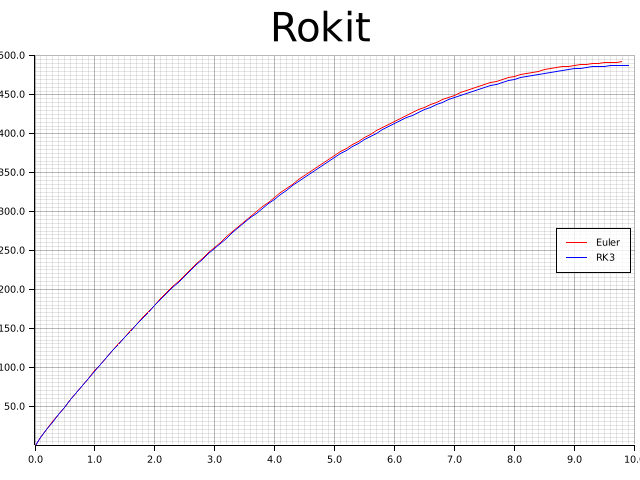
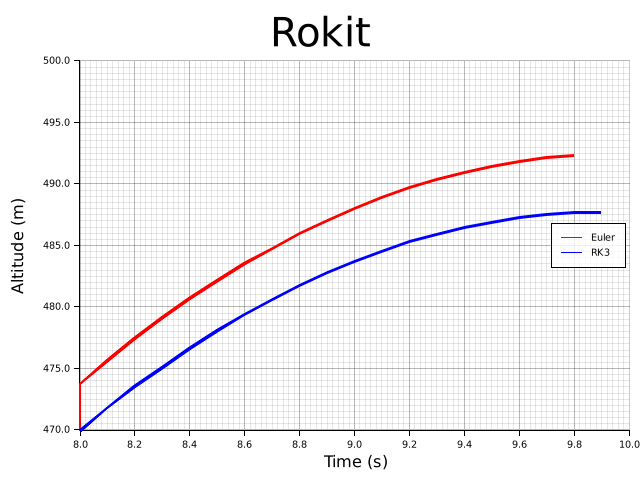
Added some comments and parametrized the plotting a little bit

Changed region(s): [[0.0, 0.0312, 1.0, 0.9688]]

diff --git a/src/state_mod.rs b/src/state_mod.rs
@@ -4,12 +4,16 @@ use crate::simdata_mod::SimulationData;
 
 #[derive(Debug, Clone, Copy)]
 pub(crate) enum State {
+    // Enumeration to unify the different available state spaces / ODE models
+    // Each of these specifies what the simulation is really all about: what equations you are
+    //         actually solving, what data types, and the number of variables that are needed,...
     __1DOF(Dof1),
     __3DOF(Dof3),
 }
 
 #[derive(Debug, Clone, Copy)]
 pub(crate) enum StateVector {
+    // Data type which represents an actual vector(rust::array) of the state space for a given model
     __1DOF([f64; 2]),
     __3DOF([f64; 6]),
 }
@@ -17,18 +21,21 @@ pub(crate) enum StateVector {
 impl State {
     pub(crate) fn print_state(&self, i: u64) {
         match self {
+            // Custom printout to let the user know the status of the state during iterations
             State::__1DOF(dof1) => dof1.print_state_1dof(i),
             State::__3DOF(dof3) => dof3.print_state_3dof(i),
             _ => println!("Ignoring, State:print_state"),
         }
     }
     pub(crate) fn get_state_vec(&self) -> StateVector {
+        // Return the current values of the state variables using that StateVector enum
         match self {
             State::__1DOF(dof1) => StateVector::__1DOF(dof1.u),
             State::__3DOF(dof3) => StateVector::__3DOF(dof3.u),
         }
     }
     pub(crate) fn get_ndim(&self) -> usize {
+        // Get number of dimensions
         match self {
             State::__1DOF(_dof1) => 2usize,
             State::__3DOF(_dof3) => 6usize,
@@ -39,6 +46,7 @@ impl State {
         }
     }
     pub(crate) fn get_altitude(&self) -> f64 {
+        // get the current elevation/height
         match self {
             State::__1DOF(dof1) => dof1.get_height(),
             State::__3DOF(dof3) => dof3.get_height(),
@@ -49,6 +57,7 @@ impl State {
         }
     }
     pub(crate) fn get_vertical_velocity(&self) -> f64 {
+        // get the velocity in the vertical direction
         match self {
             State::__1DOF(dof1) => dof1.get_velocity(),
             State::__3DOF(dof3) => dof3.get_y_velocity(),
@@ -59,6 +68,7 @@ impl State {
         }
     }
     pub(crate) fn get_time(&self) -> f64 {
+        // return the value of the time variable
         match self {
             State::__1DOF(dof1) => dof1.get_time_1dof(),
             State::__3DOF(dof3) => dof3.get_time_3dof(),
@@ -69,6 +79,7 @@ impl State {
         }
     }
     pub(crate) fn get_derivs(&mut self) -> StateVector {
+        // Return a vector which contains the derivatives of the model/state variables
         match self {
             State::__1DOF(dof1) => StateVector::__1DOF(dof1.get_derivs_1dof()),
             State::__3DOF(dof3) => StateVector::__3DOF(dof3.get_derivs_3dof()),
@@ -79,6 +90,8 @@ impl State {
         }
     }
     pub(crate) fn update(&mut self, du_vec: StateVector, dt: f64) -> () {
+        // Used by the math module to modify the value of the current state once the timestep has
+        //  been calculated by the OdeIterator
         match (self, du_vec) {
             (State::__1DOF(dof1), StateVector::__1DOF(du)) => dof1.update_state(du, dt),
             (State::__3DOF(dof3), StateVector::__3DOF(du)) => dof3.update_state(du, dt),
@@ -88,6 +101,7 @@ impl State {
         }
     }
     pub(crate) fn multiply(&self, u_vec: StateVector, k: f64) -> StateVector {
+        // Function for multiplying a state vector by a scalar
         match (self, u_vec) {
             (State::__1DOF(dof1), StateVector::__1DOF(u)) => {
                 StateVector::__1DOF(dof1.multiply(u, k))
@@ -102,6 +116,7 @@ impl State {
         }
     }
     pub(crate) fn add(&self, u_vec: StateVector, v_vec: StateVector) -> StateVector {
+        // Function for adding two state vectors to each other
         match (self, u_vec, v_vec) {
             (State::__1DOF(dof1), StateVector::__1DOF(u), StateVector::__1DOF(v)) => {
                 StateVector::__1DOF(dof1.add(u, v))
@@ -123,6 +138,9 @@ impl State {
 
 #[derive(Debug, Clone, Copy)]
 pub(crate) struct Dof1 {
+    // This model is a simple 1D, (position,velocity) model
+    // The assumtion is that the rocket is flying perfectly vertical and that there are no
+    // considerations about rotation or anything which would not be 1D in nature.
     u: [f64; 2],    // (height, velocity)
     dudt: [f64; 2], // (d_height, d_velocity)
     rocket: Rocket,
@@ -200,6 +218,9 @@ impl Dof1 {
 
 #[derive(Debug, Clone, Copy)]
 pub(crate) struct Dof3 {
+    // This model is a 3 Degrees of Freedom model which has 2 spatial dimensions
+    // (x=horizontal, y=vertical) and a 3rd variable for the rotation of the rocket
+    // within that 2D space.
     u: [f64; 6], // (x position, y position, angle, x velocity, y velocity, angular veloicty)
     dudt: [f64; 6], // (dx, dy, dang, dvx, dvy, dvang)
     rocket: Rocket,

diff --git a/src/main.rs b/src/main.rs
@@ -4,6 +4,8 @@ mod rocket_mod;
 mod simdata_mod;
 mod simulation_mod;
 mod state_mod;
+
+use std::io::BufRead;
 use plotters::prelude::*;
 
 use crate::math_mod::OdeIterators;
@@ -31,12 +33,13 @@ fn main() -> Result<(), Box<dyn std::error::Error>> {
     // Initial Conditions
     let u0: [f64; 2] = [0.0, 100.0]; // m, m/s
     let state_euler = State::__1DOF(Dof1::new(u0, test_rocket));
-    let u0: [f64; 6] = [0.0, 0.0, 0.0, 0.0, 100.0, 0.0]; // m, m/s
+
+    let u0: [f64; 6] = [0.0, 0.0, 0.0, 0.0, 100.0, 0.0]; // m, m, rad, m/s, m/s, rad/s
     let state_rk3 = State::__3DOF(Dof3::new(u0, test_rocket));
 
     // iteration/calculation Parameters
-    const MAXITER: u64 = 1e5 as u64;
-    const DT: f64 = 1e-1 as f64;
+    const MAXITER: u64 = 1e5 as u64;        //Maximum number of iterations before stopping calculation
+    const DT: f64 = 1e-1 as f64;            //Timestep size to use when integrating ODE
     let euler_method = OdeIterators::Euler(DT);
     let rk3 = OdeIterators::RK3(DT);
 
@@ -54,37 +57,62 @@ fn main() -> Result<(), Box<dyn std::error::Error>> {
     );
     println!("Try different timestep sizes and see how the different methods' accuracy behaves!");
 
-    // ========== Plotting Results (will be moved to module file in the future)
-    let root = BitMapBackend::new("0.png", (640, 480)).into_drawing_area();
+
+    // ========== Plotting Results (will be cleaned up in the future)
+    let file_name = "test.png";
+
+    let xmin = 8f32;
+    let xmax = 10f32;
+    let ymin = 470f32;
+    let ymax = 495f32;
+
+    let plot_title = "Test Rocket Flight";
+    let y_label = "Altitude (m)";
+    let x_label = "Time (s)";
+
+    let series_1_name = "Euler's Method";
+    let series_2_name = "Runge-Kutta 3-stage Method";
+
+
+
+    let root = BitMapBackend::new(file_name, (640, 480)).into_drawing_area();
     root.fill(&WHITE)?;
     let mut chart = ChartBuilder::on(&root)
-        .caption("Rokit", ("sans-serif", 50).into_font())
-        .margin(5)
-        .x_label_area_size(30)
-        .y_label_area_size(30)
-        .build_cartesian_2d(0f32..10f32, 0.1f32..500f32)?;
+        .caption(plot_title, ("sans-serif", 50).into_font())
+        .margin(10)
+        .x_label_area_size(40)
+        .y_label_area_size(70)
+        .build_cartesian_2d(xmin..xmax, ymin..ymax)?;
 
-    chart.configure_mesh().draw()?;
+    chart.configure_mesh()
+        .x_desc(x_label)
+        .y_desc(y_label)
+        .axis_desc_style(("sans-serif", 20))
+        .draw()?;
 
+
+    // ########## The number in ~~~.col( x ).~~~~ is what determines which variable we are
+    // ########## looking at. Since this is state-dependant, I think it would be nice to get a
+    // ########## string or otherwise more general way of specifying that. But this works for now.
     chart
         .draw_series(LineSeries::new(
             (0..case_euler.iter).map(
                 |ind| (case_euler.data.col(0).get_val(ind as usize)as f32,
-                       case_euler.data.col(1).get_val(ind as usize) as f32)
+                            case_euler.data.col(1).get_val(ind as usize) as f32)
             ),
-            &RED,
+            RED.stroke_width(2),
         ))?
-        .label("Euler")
+        .label(series_1_name)
         .legend(|(x, y)| PathElement::new(vec![(x, y), (x + 20, y)], &RED));
     chart
         .draw_series(LineSeries::new(
             (0..case_rk3.iter).map(
                 |ind| (case_rk3.data.col(0).get_val(ind as usize)as f32,
-                       case_rk3.data.col(2).get_val(ind as usize) as f32)
+                            case_rk3.data.col(2).get_val(ind as usize) as f32)
             ),
-            &BLUE,
+            BLUE.stroke_width(2),
         ))?
-        .label("RK3")
+        .label(series_2_name)
         .legend(|(x, y)| PathElement::new(vec![(x, y), (x + 20, y)], &BLUE));
 
     chart

diff --git a/src/simdata_mod.rs b/src/simdata_mod.rs
@@ -1,6 +1,8 @@
 use crate::state_mod::{State, StateVector};
 #[derive(Debug, Clone)]
 pub(crate) enum SimulationData {
+    //Enumeration to unify the different types of simulation data, each corresponding to a certain
+    // state space / model.
     __1DOF(SimData1Dof, usize),
     __3DOF(SimData3Dof, usize),
 }
@@ -12,6 +14,7 @@ impl SimulationData {
         }
     }
     pub(crate) fn add_row(&mut self, new_data_vec: (StateVector, StateVector), time: f64) {
+        // This function is used for adding entries to the data each iteration
         //new_data_vec = (u, dudt) = (state variables, state derivatives)
         match (self, new_data_vec.0, new_data_vec.1) {
             (SimulationData::__1DOF(sim_data, _),
@@ -24,6 +27,7 @@ impl SimulationData {
         }
     }
     pub(crate) fn col(&mut self, col: usize) -> &mut Self {
+        // A setter which is used to specify which field of data the user wants to retrieve
         match self {
             SimulationData::__1DOF(dof1, _) => dof1.set_col(col),
             SimulationData::__3DOF(dof3, _) => dof3.set_col(col),
@@ -31,6 +35,8 @@ impl SimulationData {
         self
     }
     pub(crate) fn get_val(&mut self, ind: usize) -> f64 {
+        // A getter which returns the value at the given index
+        //      (and in whatever col the data object has been set to)
         match self {
             SimulationData::__1DOF(dof1, _) => dof1.get_value(ind).unwrap_or_else(|| {f64::NAN}),
             SimulationData::__3DOF(dof3, _) => dof3.get_value(ind).unwrap_or_else(|| {f64::NAN}),
@@ -39,6 +45,8 @@ impl SimulationData {
     }
 }
 impl Iterator for SimulationData {
+    // A barebones implimintation of the Iterator trait for Simulation Data. Currently unused,
+    // but could be useful in the future.
     type Item = f64;
 
     fn next(&mut self) -> Option<Self::Item> {

diff --git a/src/simulation_mod.rs b/src/simulation_mod.rs
@@ -3,6 +3,10 @@ use crate::state_mod::{State, StateVector};
 use crate::simdata_mod::SimulationData;
 
 pub(crate) struct Simulation {
+    // Struct used to coordinate the execution of a simulation. It is supplied with a
+    // State space/model, and a timestepping method, and will carry out iterations until a stopping
+    // criterea is reached, or the maximum number of iterations have been carried out.
+
     state: State,
     nvar: usize,
     ode: OdeIterators,
@@ -35,7 +39,7 @@ impl Simulation {
             let dudt = self.state.get_derivs();
             let u = self.state.get_state_vec();
             
-            //log data
+            //Add data to sata struct
             self.data.add_row((u, dudt), self.state.get_time());
                 
             //Check for Exit Condition
@@ -46,8 +50,8 @@ impl Simulation {
                 println!("===========================================================================================================================\n");
                 break;
             }
-            //Output Simulation Info
-            if i % 100 == 0 {
+            //Output simulation info to terminal
+            if i % 1 == 0 {
                 self.state.print_state(i);
             }
 
@@ -56,6 +60,7 @@ impl Simulation {
         }
     }
     pub(crate) fn apogee(&mut self) -> f64 {
+        // Getter to obtain the apogee of aa flight after the simulation is complete
         if !self.is_done() {
             println!("Apogee requested before simulation has been run!!!\n");
             f64::NAN

diff --git a/src/math_mod.rs b/src/math_mod.rs
@@ -8,6 +8,8 @@ pub(crate) enum OdeIterators {
 
 impl OdeIterators {
     pub(crate) fn timestep(&self, state: &mut State) {
+        //Wrapper function. Used to execute an iteration, or timestep,
+        // given a state/ODE, and a timestepping method
         match self {
             OdeIterators::Euler(delta_time) => Self::explicit_euler(state, *delta_time),
             OdeIterators::RK3(delta_time) => Self::runge_kutta_3(state, *delta_time),
@@ -19,13 +21,20 @@ impl OdeIterators {
     }
 
     fn explicit_euler(state: &mut State, dt: f64) {
+        //The Explicit euler method is the most basic,
+        // just multiplying th derivative by the timestep
         let dudt: StateVector = state.get_derivs();
         let du = state.multiply(dudt, dt);
         state.update(du, dt)
     }
 
     fn runge_kutta_3(state: &mut State, dt: f64) {
-        //Based off Strong Stability Preserving (SSP) aka. Total variation Diminishing (TVD) RK3
+        // Runge-Kutta methods are a family of higher-order integration schemes.
+        // The account for varying degrees of non-linearity /
+        // curvature in the function you are trying to calculate.
+        // This method is a 3-stage method based off Strong Stability Preserving (SSP) aka.
+        // Total variation Diminishing (TVD) form of RK3. (commonly used in PDE applications)
+
         let mut state_rk: State = state.clone();
 
         //Stage 1       dt = 1 * DT
